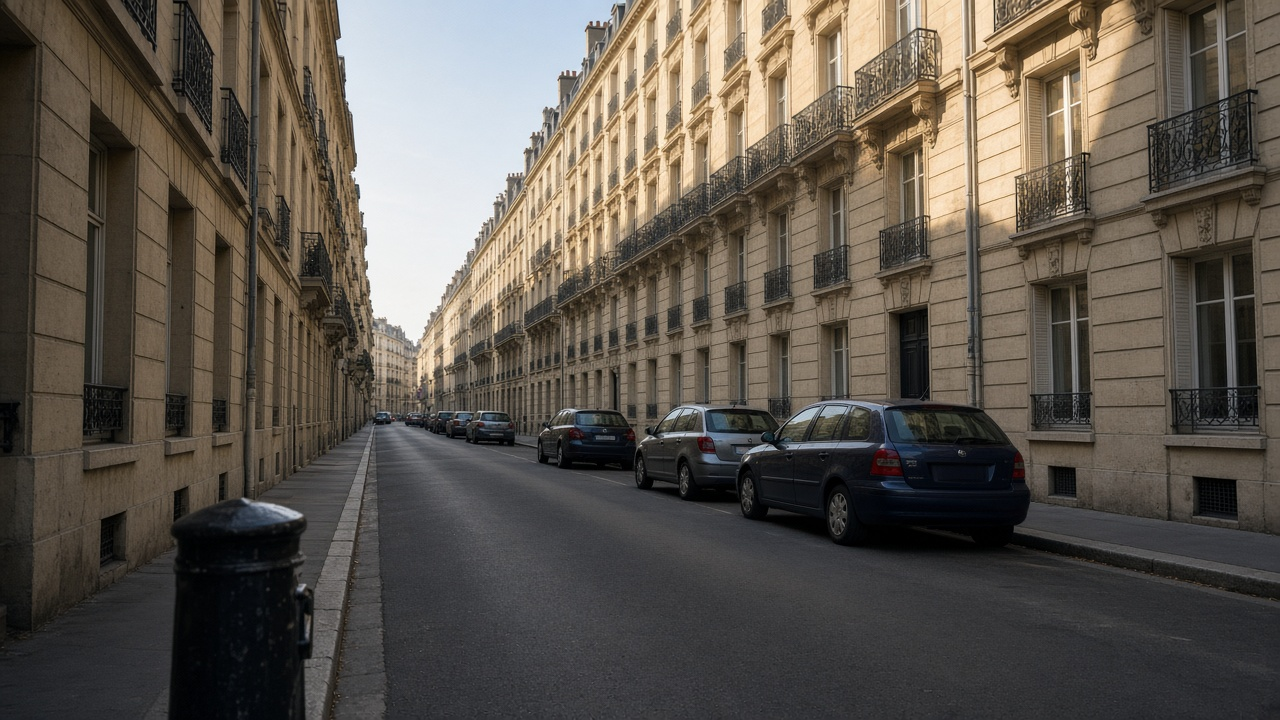
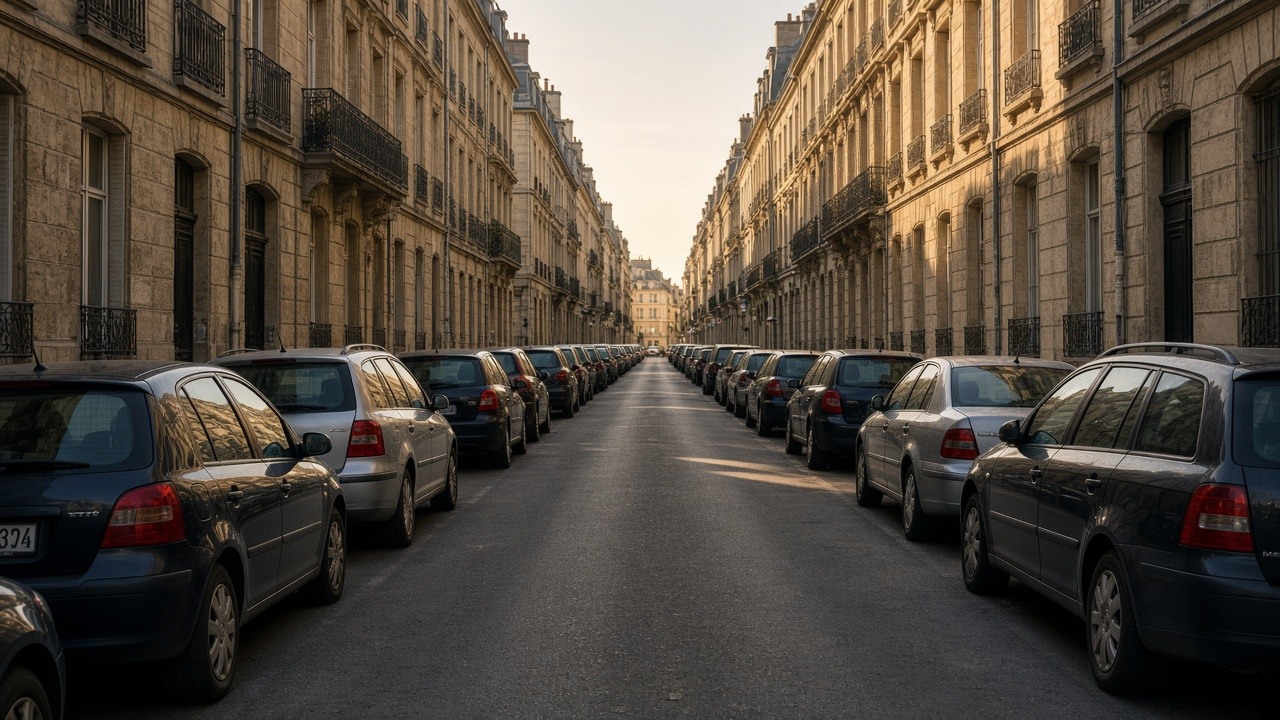
fix(web): show a fully parked street in the hero
Match the product pain: dense curb parking with no free gaps, not an
already-open spot.

diff --git a/apps/web/assets/i18n.js b/apps/web/assets/i18n.js
@@ -22,7 +22,7 @@
         "ParkXchange conecta a quien busca un sitio para aparcar en la ciudad con quien se va a ir de todas formas.",
       "hero.cta": "Cómo funciona",
       "hero.imageAlt":
-        "Calle urbana con coches aparcados y un hueco libre en la acera",
+        "Calle urbana llena de coches aparcados, sin huecos libres",
       "how.title": "Cómo funciona",
       "how.step1.title": "Anuncia",
       "how.step1.body":
@@ -124,7 +124,7 @@
         "ParkXchange connects people looking for a place to park in the city with drivers who are leaving anyway.",
       "hero.cta": "How it works",
       "hero.imageAlt":
-        "City street with parked cars and one open curb parking space",
+        "City street packed with parked cars and no free spaces",
       "how.title": "How it works",
       "how.step1.title": "Announce",
       "how.step1.body":

diff --git a/apps/web/index.html b/apps/web/index.html
@@ -50,7 +50,7 @@
             width="1600"
             height="900"
             data-i18n-alt="hero.imageAlt"
-            alt="Calle urbana con coches aparcados y un hueco libre en la acera"
+            alt="Calle urbana llena de coches aparcados, sin huecos libres"
           />
         </figure>
       </section>
